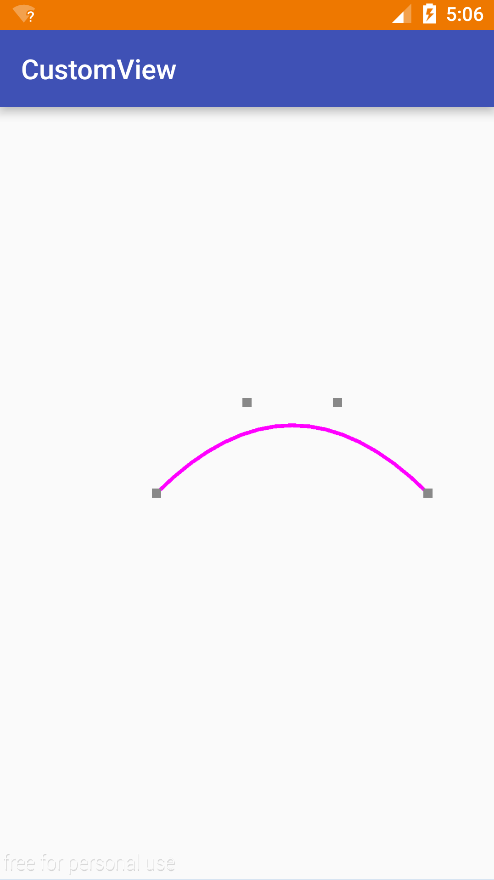
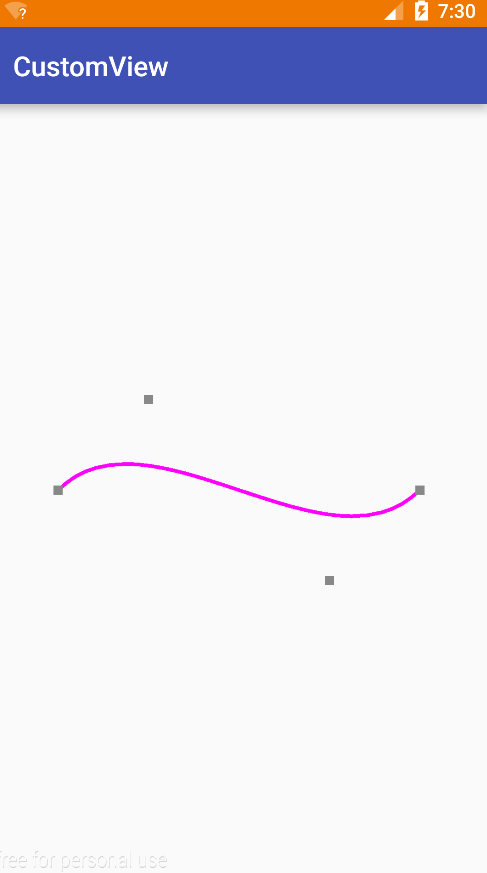
6.01

diff --git a/Blog/6、Bezier.md b/Blog/6、Bezier.md
@@ -208,12 +208,12 @@ protected void onSizeChanged(int w, int h, int oldw, int oldh) {
     mWidth = mViewWidth - getPaddingLeft() - getPaddingRight();
     mHeight = mViewHeight - getPaddingTop() - getPaddingBottom();
     r = Math.min(mWidth,mHeight)*0.4f;
-    start.x = -r/2;
+    start.x = -r;
     start.y = 0;
-    control1.x = 0;
+    control1.x = -r/2;
     control1.y = -r/2;
     control2.x = r/2;
-    control2.y = -r/2;
+    control2.y = r/2;
     end.x = r;
     end.y = 0;
 }
@@ -237,6 +237,10 @@ protected void onDraw(Canvas canvas) {
 }
 ```
 <br><img src="https://github.com/Idtk/Blog/blob/master/Image/cubicTo.png" alt="cubicTo" title="cubicTo" width="300" />
+<br>
+
+是不是和之前quadTo生成的水纹很像？如果想要在上面的**百分比注水球类**中加入动画，并且不要求一定是正弦波的情况下，使用cubicTo可以更为方便。
+
 <br>
 
 我最近在做的开源图表库SmallChart中绘制曲线时，就是用了cubicTo。同时使用了MPChart项目中的算法，对高阶贝塞尔曲线进行了降阶，相关代码如下 :
